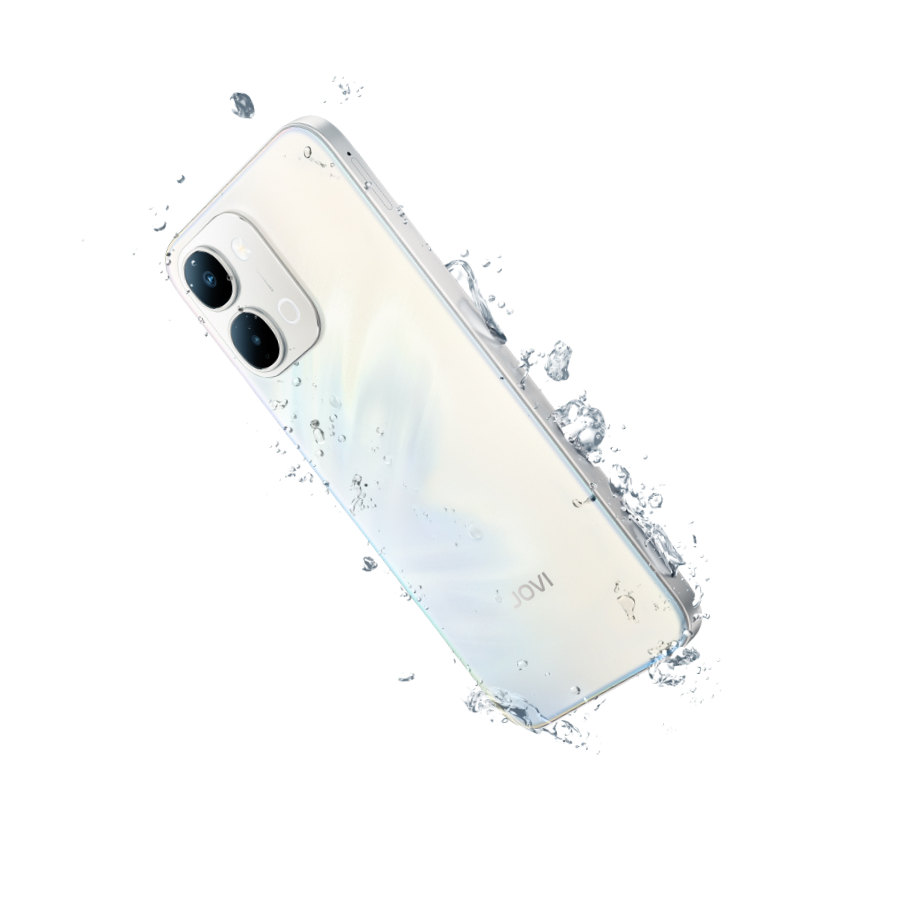
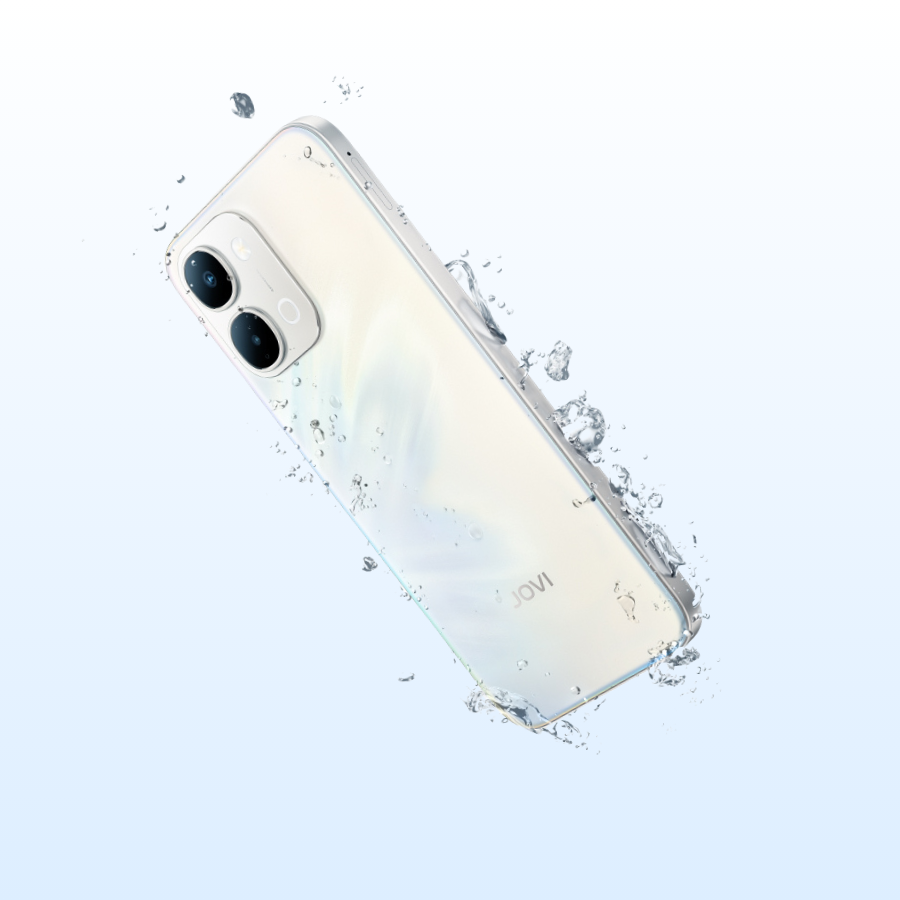
Docs:Sprint-front

Changed region(s): [[0.0, 0.7156, 1.0, 1.0]]

diff --git a/css/style.css b/css/style.css
@@ -23,20 +23,22 @@ box-sizing: border-box;
 body {
 background-color: var(--color-background);
 font-family: 'Segoe UI', Tahoma, Geneva, Verdana, sans-serif;
+background: linear-gradient(180deg, #e8f0f7 0%, #dce8f5 50%, #cfe0f2 100%)
 }
 
 .menu {
-background-color: var(--color-accent);
+background-color:transparent;
 font-size: 30px;
 display: flex;
 flex-direction: row;
 align-items: center;
 justify-content: space-between;
+padding: 0 var(--spacing-md);
 }
 
 /* Colocar font-family GOTHAM */
 .ht {
-color: var(--color-background-alt);
+color: var(--color-accent);
 font-size: 20px;
 display: flex;
 text-align: center;
@@ -49,8 +51,8 @@ display: flex;
 flex-direction: row;
 align-items: center;
 justify-content: right;
-color: var(--color-background-alt);
-gap: var(--spacing-md);
+color: var(--color-text-primary);
+gap: var(--spacing-sm);
 list-style: none;
 font-size: 15px;
 margin: var(--spacing-sm);
@@ -58,16 +60,18 @@ margin: var(--spacing-sm);
 
 .link {
 text-decoration: none;
-background-color: var(--color-accent);
-color: var(--color-background-alt);
+background-color: transparent;
+color: var(--color-accent);
 padding: 10px 20px;
-border: .5px solid var(--color-background-alt);
+border: .1px solid var(--color-accent);
 border-radius: 2px;
+transition: 0.3s;
 }
 
 .link:hover {
-opacity: 0.8;
-transition: 0.3s;
+background-color: var(--color-accent); 
+color: var(--color-background);          
+opacity: 1;
 }
 
 .inicio {
@@ -75,16 +79,21 @@ display: flex;
 flex-direction: row;
 align-items: center;
 justify-content: center;
-gap: var(--spacing-xl);
 margin: var(--spacing-xl);
 font-size: large;
-gap: 10px;
-background-color: #0057FF;
+gap: 4px;
 }
 
 .sub-inicio {
 color: var(--color-text-primary);
-gap: var(--spacing-md);
+width: 50%;
+display: flex;
+flex-direction: column;
+justify-content: center;
+align-items: center;
+text-align: center;
+gap: var(--spacing-sm);
+padding: var(--spacing-md);
 }
 
 .sub-inicio h3 {
@@ -98,8 +107,7 @@ background-color: var(--color-background-alt);
 display: flex;
 align-items: end;
 justify-content: right;
-padding: 10px 20px;
-margin-left: 30px;
+
 }
 
 .area {
@@ -107,53 +115,96 @@ display: flex;
 flex-direction: column;
 align-items: center;
 justify-content: center;
-gap: var(--spacing-xl);
-margin: var(--spacing-xl);
+gap: 4px;
+margin: 0;
 font-size: large;
-background-color: aqua;
+background-color: var(--color-background-alt);
+flex-wrap: wrap;
 }
 
 .sub-area {
-    gap: var(--spacing-xl);
-}
-
-.card1 {
-display: flexbox;
-flex-direction: column;
-align-items: center;
-justify-content: center;
 gap: var(--spacing-xl);
 }
 
-
-.b {
-    width: 585px;
-    height: auto;
+.card1, .card2, .card3 {
+display: flex;
+justify-content: space-between;
+flex-direction: row;
+align-items: center;
+gap: var(--spacing-md);
+background: linear-gradient(135deg, #ffffff 0%, #ddeeff 100%);
+padding: var(--spacing-sm);
+border-radius: 0;
+width: 100%;
+max-width: 100%;
+min-height: 400px; 
 }
 
-.c {
-    width: 585px;
-    height: auto;
+.card-texto {
+width: 50%;
+display: flex;
+flex-direction: column;
+justify-content: center;
+align-items: center;    
+text-align: center;
+gap: var(--spacing-sm);
+padding: var(--spacing-md);
+}
+.card1 {
+background:( #ffffff 0%, #ddeeff 100%);}
+
+.card2 {
+background: linear-gradient(135deg, #ffffff 0%, #ddeeff 100%);
 }
 
-#func{
-    font-family: Arial, Helvetica, sans-serif;
-    font-size: xx-large;
+.card3 {
+background: linear-gradient(135deg, #ffffff 0%, #ddeeff 100%);
 }
 
-.txt{
-    display: flex;
-    justify-content: center;
-    text-align: right;
-    font-family: Georgia, 'Times New Roman', Times, serif;
+.a, .b, .c {
+width: 50%;
+height: 100%;
+object-fit: cover; 
+display: block;
 }
 
-.txtH3{
-    font-family: 'Lucida Sans', 'Lucida Sans Regular', 'Lucida Grande', 'Lucida Sans Unicode', Geneva, Verdana, sans-serif;
+.txt {
+font-family: Georgia, 'Times New Roman', Times, serif;
+text-align: center;
+font-size: 24px;
 }
+
+.txtH3 {
+font-weight: 400;
+font-size: 16px;
+color: var(--color-text-secondary);
+line-height: 1.6;
+text-align: center;
+}
+
 
 .btns{
-    display: flex;
-    justify-content: center;
-    text-align: right;
+padding: 10px 24px;
+background-color: var(--color-accent);
+color: var(--color-background);
+border-radius: 50px;      
+text-decoration: none;
+font-size: 15px;
+font-weight: 600;
+display: inline-block;
+flex-direction: row;
+justify-content: center;    
+align-items: center;        
+text-align: center;        
+}
+
+.fim {
+width: 100%;
+height: 50px;
+background: linear-gradient(135deg, #f0f7ff 0%, #ddeeff 100%);
+display: flex;
+justify-content: center;
+align-items: center;
+gap: var(--spacing-md);
+padding: 0;
 }

diff --git a/index.html b/index.html
@@ -28,37 +28,43 @@
                 <p>A jovi Vision AI é uma solução de visão artificial que revolutiona a forma como interagimos com as câmeras digitais.</p>
             </div>
             <div>
-                <img class="Y31" src="./images/Imagem ajustada para posição noroeste.png" alt="Imagem do Y31">
+                <img class="Y31" src="./images/1.png" alt="Imagem do Y31">
             </div>    
         </section>
             <section class="area">
                 <div class="sub-area">
-                    <h2 id="func">Funcionalidades</h2>
                 </div>
                 <div class="card1">
-                    <h2 class="txt">Flash Frontal</h2>
-                    <h3 class="txtH3">Lorem ipsum dolor sit amet, consectetur adipisicing elit. Hic inventore iusto repellendus dolorum beatae deleniti.</h3>
-                    <a class="btns" href="./pages/Flash_CF.html" target="_blank">Saiba Mais</a>
-                </div>
-                <div>
-                    <img class="a" src="https://a-static.mlcdn.com.br/800x600/kit-4-cameras-seguranca-monitore-sua-casa-celular-24-horas-protec/ssseguranca/ed9c517c816f11eca0bd4201ac185055/8e7ecae11d3d4da4d0886382610257ef.jpeg" alt="1">
+                    <div class="card-texto">
+                        <h2 class="txt">Flash Frontal</h2>
+                        <h3 class="txtH3">Lorem ipsum dolor sit amet, consectetur adipisicing elit. Hic inventore iusto repellendus dolorum beatae deleniti.</h3>
+                        <a class="btns" href="./pages/Flash_CF.html" target="_blank">Saiba Mais</a>
+                    </div>
+                    <img class="a" src="https://i.pinimg.com/736x/20/d9/9a/20d99ac319f782ac07daf2266c820dc2.jpg" alt="1">
                 </div>
                 <div class="card2">
-                    <h2 class="txt">Nuvem</h2>
-                    <h3 class="txtH3">Lorem ipsum dolor sit amet consectetur adipisicing elit. Deleniti laborum quod consectetur, corrupti fugiat id!</h3>
-                    <a class="btns" href="./pages/nuvem.html" target="_blank">Saiba Mais</a>
-                </div>
-                <div>
+                    <div class="card-texto">
+                        <h2 class="txt">Nuvem</h2>
+                        <h3 class="txtH3">Lorem ipsum dolor sit amet consectetur adipisicing elit. Deleniti laborum quod consectetur, corrupti fugiat id!</h3>
+                        <a class="btns" href="./pages/nuvem.html" target="_blank">Saiba Mais</a>
+                    </div>
                     <img class="b" src="https://images.pexels.com/photos/5820029/pexels-photo-5820029.jpeg" alt="2">
-                </div>        
+                </div>     
                 <div class="card3">
-                    <h2 class="txt">Inteligência Artificial</h2>
-                    <h3  class="txtH3">Lorem ipsum dolor, sit amet consectetur adipisicing elit. Vel ipsam cumque, perspiciatis enim suscipit amet?</h3>
-                    <a class="btns" href="./pages/AI_Foto.html" target="_blank">Saiba Mais</a>
-                </div>
-                <div>
+                    <div class="card-texto">
+                        <h2 class="txt">Inteligência Artificial</h2>
+                        <h3  class="txtH3">Lorem ipsum dolor, sit amet consectetur adipisicing elit. Vel ipsam cumque, perspiciatis enim suscipit amet?</h3>
+                        <a class="btns" href="./pages/AI_Foto.html" target="_blank">Saiba Mais</a>
+                    </div>
                     <img class="c" src="https://images.pexels.com/photos/8439093/pexels-photo-8439093.jpeg" alt="3">
                 </div>
+                <div>
+                </div>
+                <section class="fim"> 
+                    <div class="texto-fim">
+                        <p>Jovi Vision AI</p>
+                    </div>
+                </section>
             </section>
     </main>
 </body>
